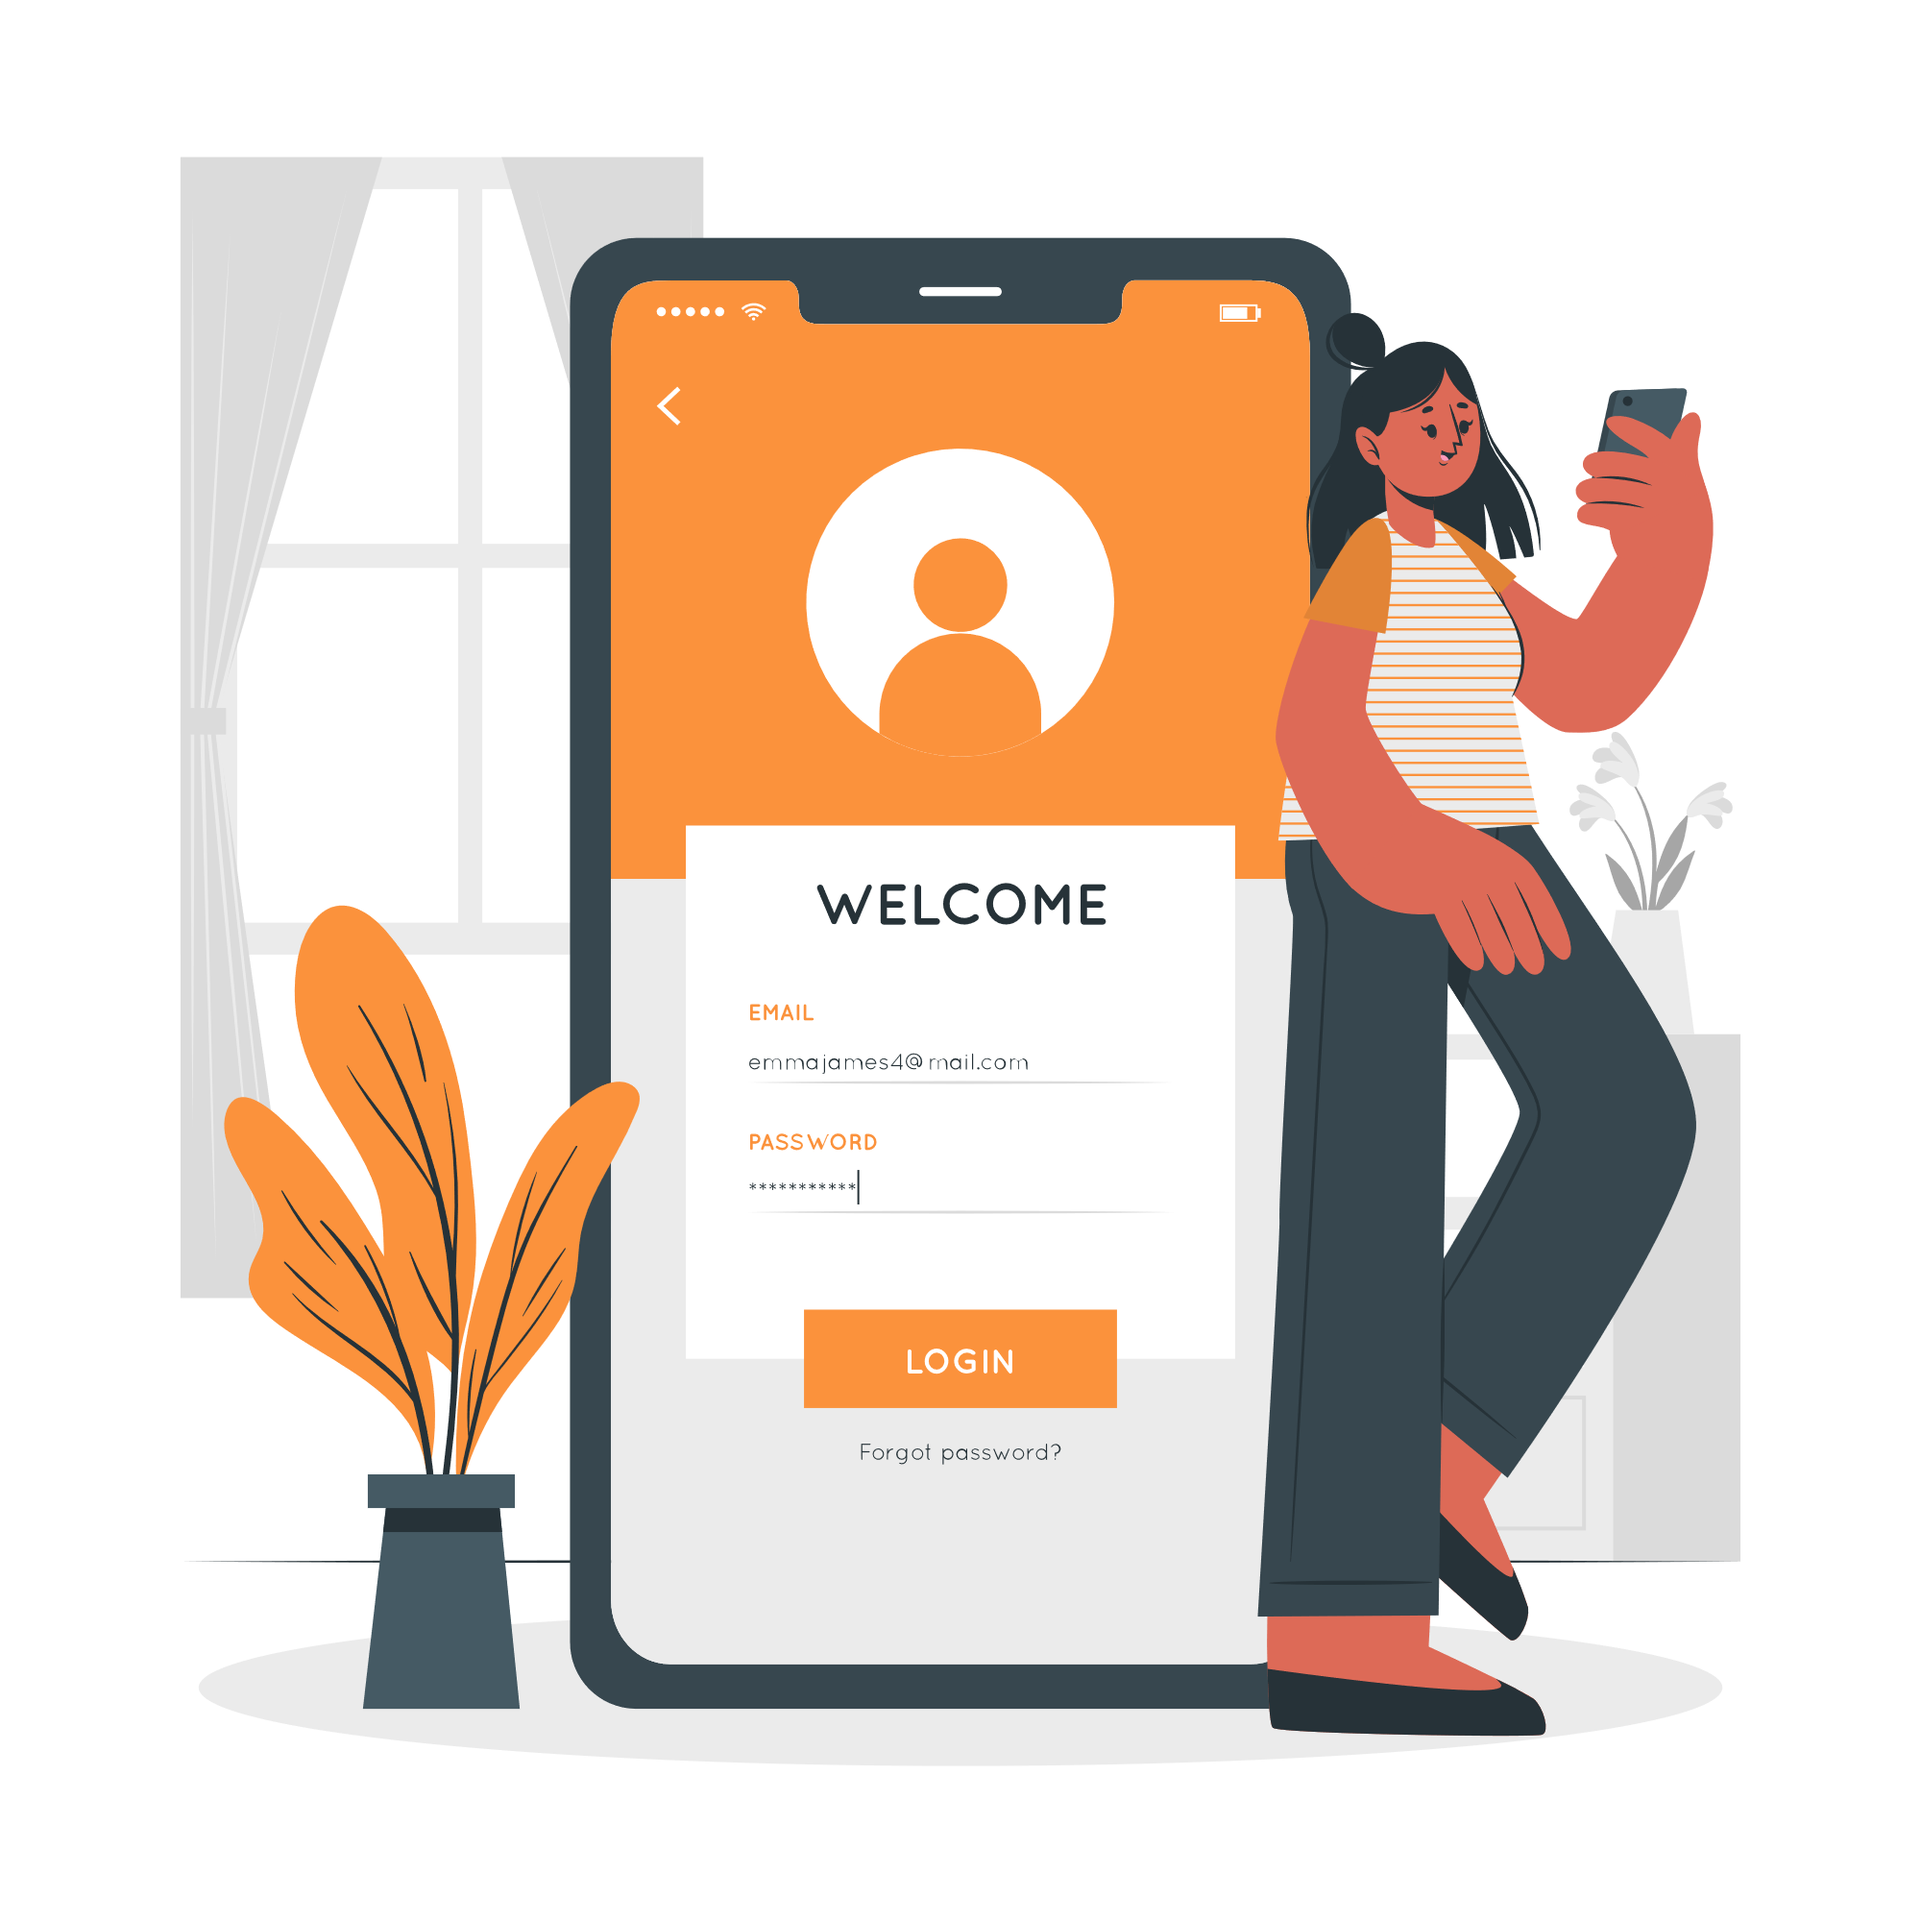
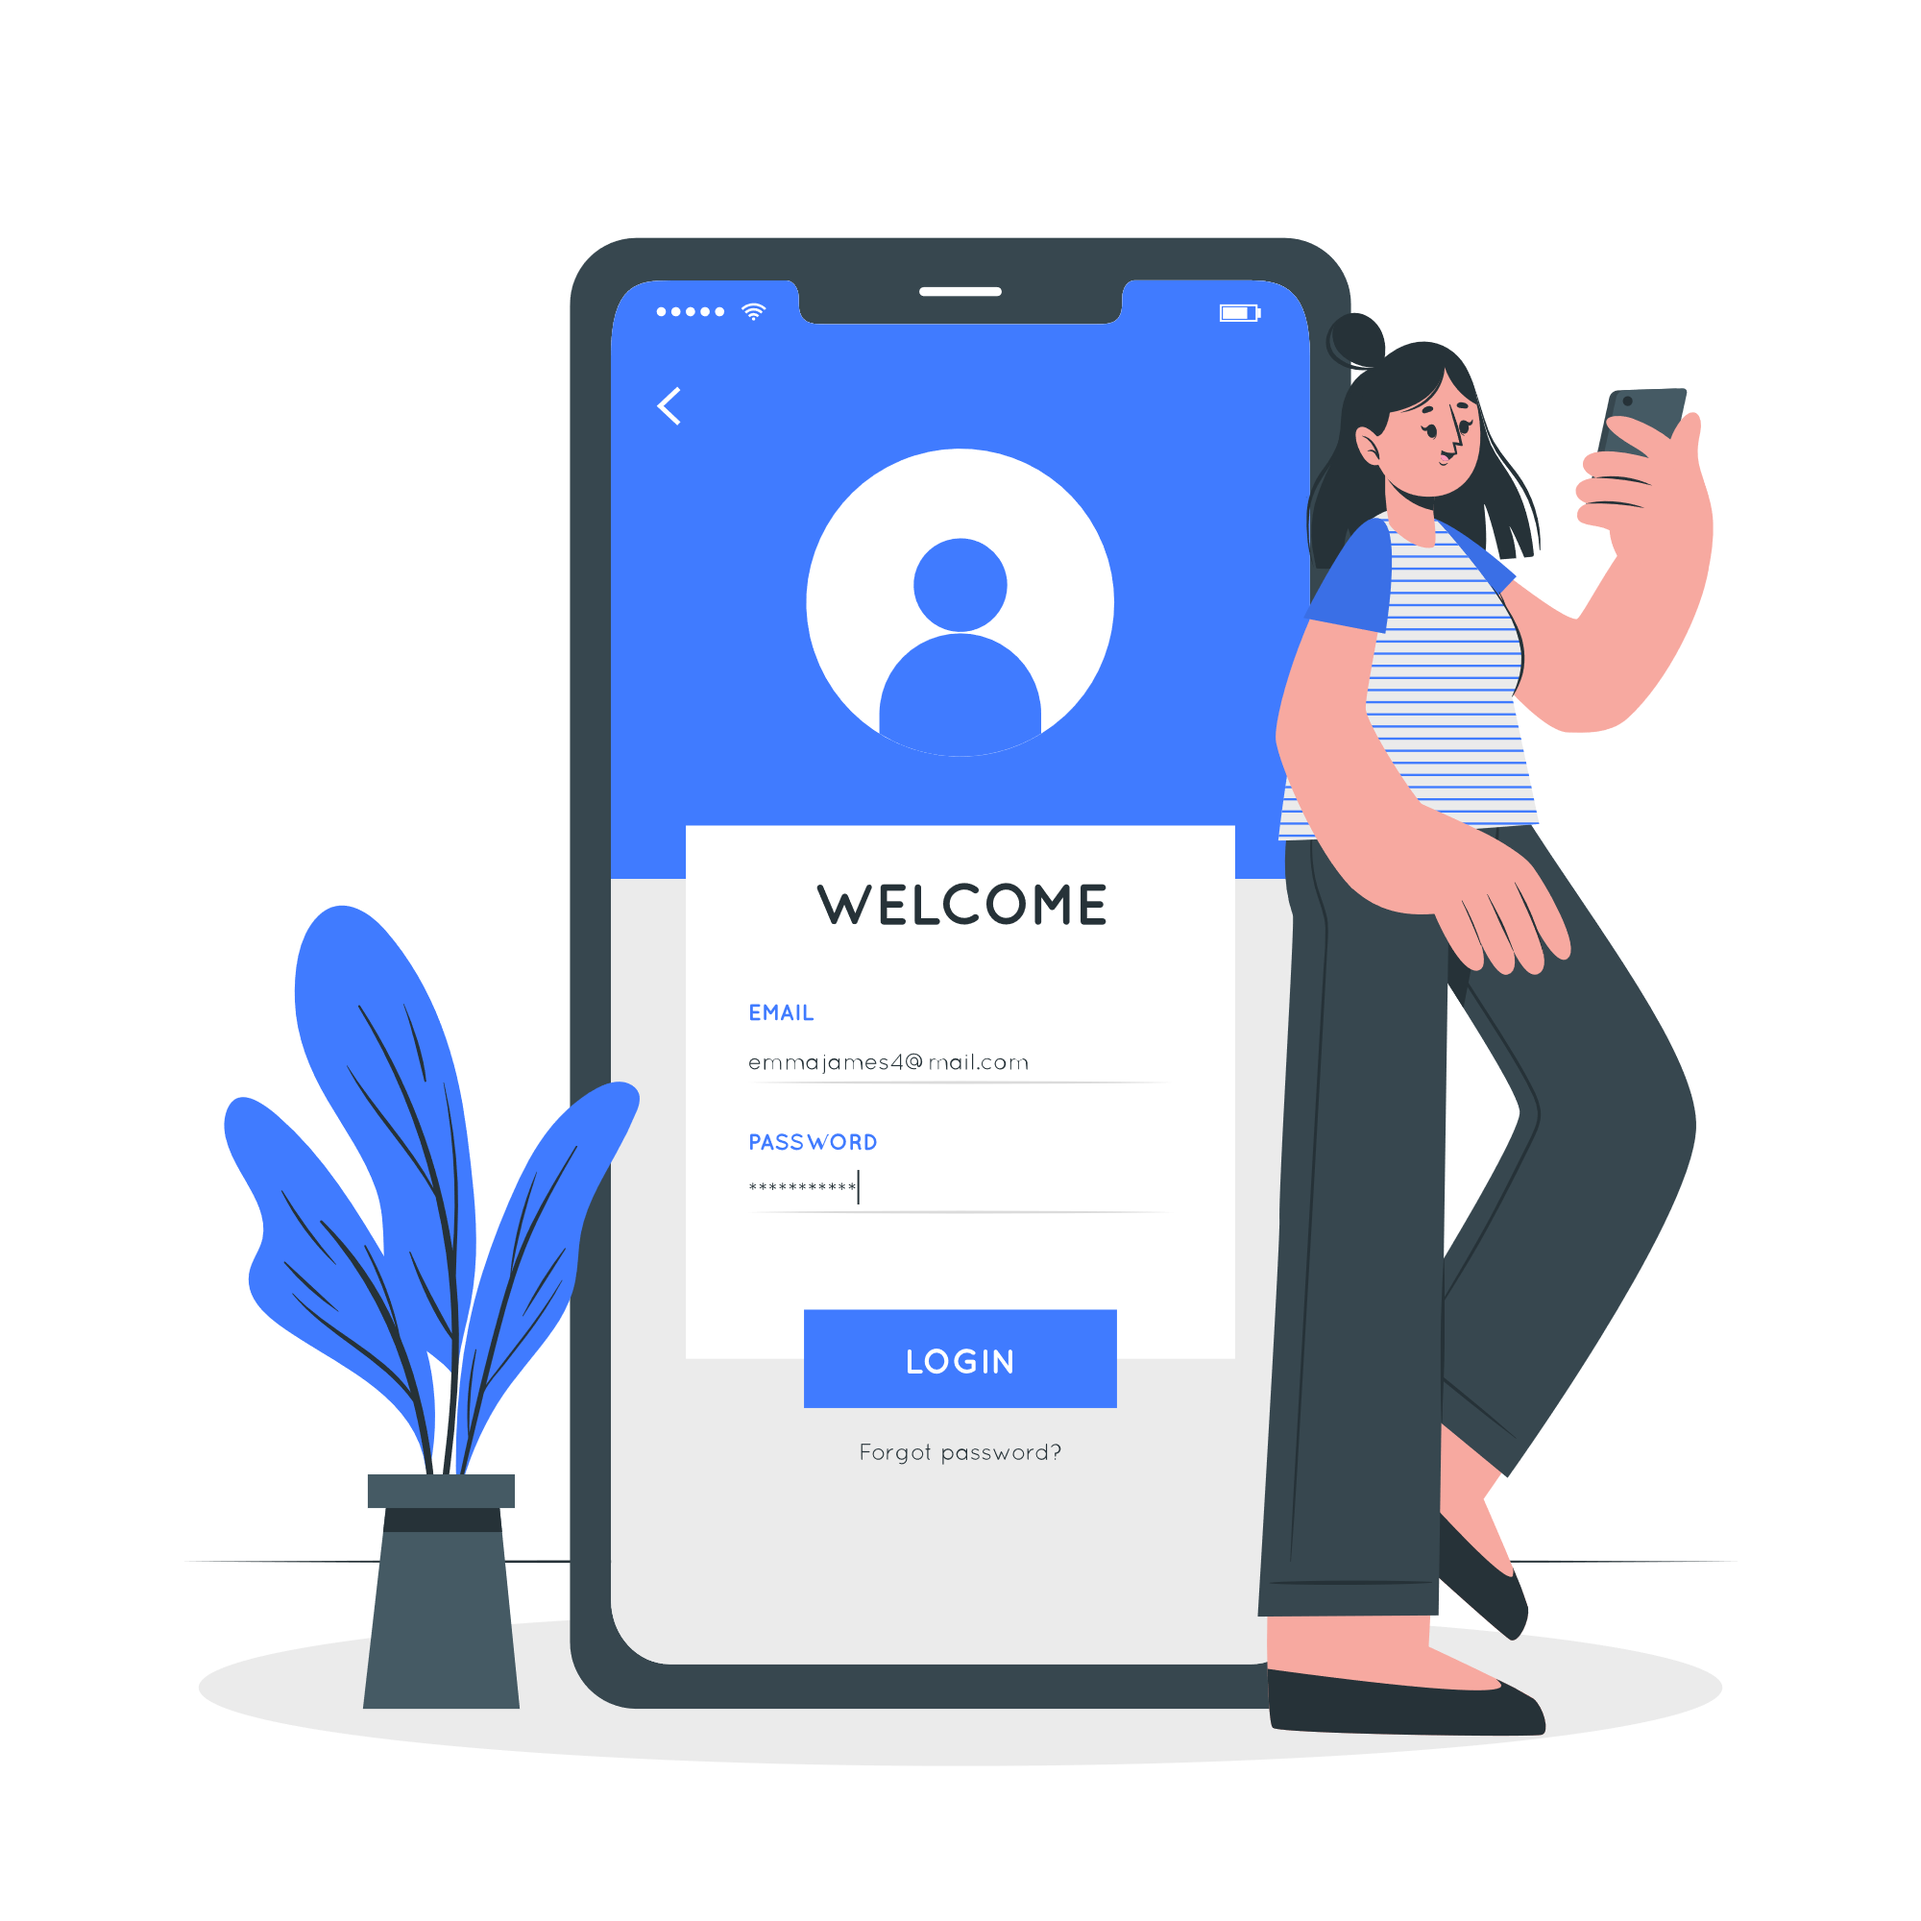
add hero section and fix many bugd

diff --git a/components/Hero.vue b/components/Hero.vue
@@ -1,0 +1,47 @@
+<script setup>
+import { useImage } from '@vueuse/core'
+
+const load = ref(true)
+tryOnMounted(() => {
+    load.value = false
+})
+
+const router = useRouter()
+
+const image = '/hero.jpg'
+const { isLoading } = useImage({ src: image })
+
+</script>
+
+<template>
+    <div>
+        <div v-if="load" class="flex items-center justify-between">
+            <div class="md:col-6 flex flex-col gap-10 w-full">
+                <div class="flex flex-col gap-2">
+                    <MySkeleton class="h-4 w-40" />
+                    <MySkeleton class="h-4 w-80" />
+                    <MySkeleton class="h-4 w-80" />
+                    <MySkeleton class="h-4 w-60" />
+                </div>
+                <MySkeleton class="h-10 w-32" />
+            </div>
+            <div class="md:col-6 w-full">
+                <MySkeleton class="h-96 w-full" />
+            </div>
+        </div>
+        <div v-if="!load" class="flex flex-col md:flex-row flex-col-reverse items-center justify-between gap-10">
+            <div class="w-full md:col-6 flex flex-col gap-10">
+                <p class="text-2xl md:text-4xl font-bold leading-10">
+                    🙌 Hello friends <br>
+                    I am Sofia and we want to start a web design course together. Do you like it too 😍 ?
+                </p>
+                <UButton label="Start Course Now" class="md:w-1/2 justify-center" size="xl" color="black"
+                    icon="i-heroicons-chevron-right" trailing @click="router.push(`/courses/ui-ux`)" />
+            </div>
+            <div class="w-full md:col-6">
+                <MySkeleton class="h-96 w-full" v-if="isLoading" />
+                <NuxtImg v-if="!isLoading" :src="image" alt="hero" title="hero" class="rounded-xl" />
+            </div>
+        </div>
+    </div>
+</template>

diff --git a/pages/accounts/login.vue b/pages/accounts/login.vue
@@ -67,7 +67,7 @@ const { isLoading } = useImage({ src: imageUrl })
         </div>
         <div class="container mx-auto p-5 mt-5 flex gap-5 items-center" v-if="!load">
             <MySkeleton v-if="isLoading" class="hidden md:flex md:w-1/2 h-96" />
-            <NuxtImg :src="imageUrl" v-if="!isLoading" class="hidden md:flex md:w-1/2" />
+            <NuxtImg :src="imageUrl" v-if="!isLoading" class="hidden md:flex md:w-1/2 text-primary" />
             <form @submit.prevent="doLogin" class="flex flex-col gap-5 w-full md:w-1/2">
                 <h1 class="text-xl md:text-4xl font-bold">Login</h1>
                 <UInput v-model="user.email" type="email" required placeholder="Email" size="xl"

diff --git a/pages/index.vue b/pages/index.vue
@@ -10,8 +10,9 @@ const router = useRouter()
 
 <template>
     <div>
-        <UContainer class="mt-5">
+        <UContainer class="mt-5 flex flex-col gap-10">
             <Categories />
+            <Hero />
         </UContainer>
     </div>
 </template>

diff --git a/pages/courses/[slug].vue b/pages/courses/[slug].vue
@@ -1,0 +1,13 @@
+<script setup>
+
+const route = useRoute()
+
+</script>
+
+<template>
+    <div>
+        <UContainer class="mt-5">
+            {{ route.params.slug }}
+        </UContainer>
+    </div>
+</template>

diff --git a/pages/courses/index.vue b/pages/courses/index.vue
@@ -1,0 +1,15 @@
+<script setup>
+
+useSeoMeta({
+    title: "Courses"
+})
+
+</script>
+
+<template>
+    <div>
+        <UContainer class="mt-5">
+            Courses
+        </UContainer>
+    </div>
+</template>
